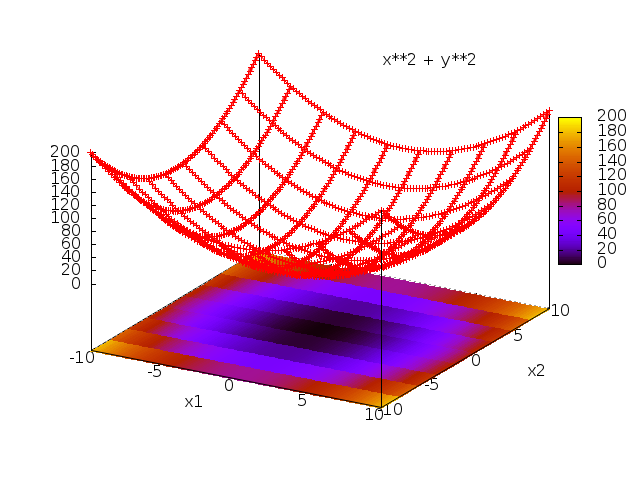
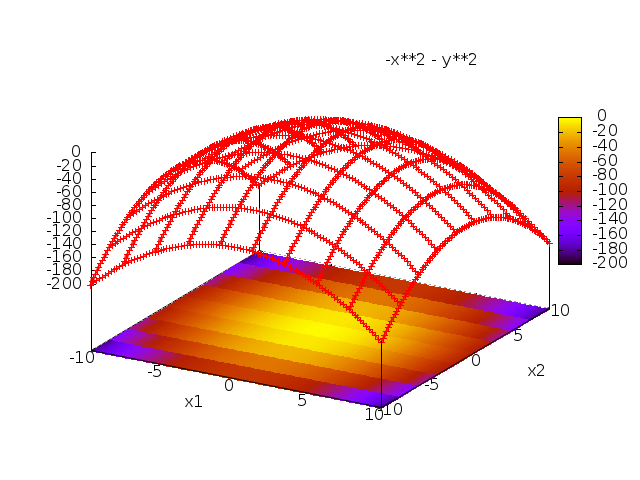
Поправлен вывод результатов (осуществляется через render_output_form), Добавлен выбор поиска максимума/минимума.

diff --git a/methods/hook_method.rb b/methods/hook_method.rb
@@ -9,10 +9,10 @@ require File.dirname(__FILE__)+"/calc_func.rb"
 
 class HookMethod
 
-  attr_accessor :draw_points, :x, :func, :y
+  attr_accessor :draw_points, :x, :func, :y, :y_res
 
   def self.find_extremum(params)
-    new(params[:function].to_s, [params[:x1].to_f,params[:x2].to_f], params[:eps].to_f, params[:lambda].to_f, params[:alpha].to_f, params[:step1].to_f, params[:step2].to_f)
+    new(params[:function], [params[:x1].to_f,params[:x2].to_f], params[:eps].to_f, params[:lambda].to_f, params[:alpha].to_f, params[:step1].to_f, params[:step2].to_f)
   end
 
   def initialize(func,x0, eps, lambda, alpha, step1, step2)
@@ -26,6 +26,7 @@ class HookMethod
     @y = [x0.dup,x0.dup,x0.dup]
     @draw_points  = Array.new
     @draw_points.push(x0.dup)
+    @y_res
     step_2
   end
 
@@ -60,6 +61,7 @@ class HookMethod
       step_2
     else
       if @step[0] < @eps and @step[1] < @eps
+        @y_res = calc(@y[-1])
       else
         @step[0] /= @alpha
         @step[1] /= @alpha

diff --git a/optimize.rb b/optimize.rb
@@ -16,8 +16,8 @@ helpers do
     "%.#{acc}f" % float
   end
 
-  def render_output_form(result)
-    erb(:output_form, locals: {result: result})
+  def render_output_form(result, params)
+    erb(:output_form, locals: {result: result, params: params})
   end
 end
 
@@ -30,8 +30,12 @@ get '/:name' do |name|
 end
 
 post '/:name' do |name|
+
+  params[:function] = params[:opt_type].to_s + "*(" + params[:function].to_s + ")"
+  params[:opt_type]= params[:opt_type].to_f
+  params[:opt_type] == -1.0 ? params[:extremum] = "Max" : params[:extremum] = "Min"
   result = name.camelize.constantize.find_extremum(params)
   drawplot(result.draw_points, name.to_s)
-  drawfunc(result.func)
+  drawfunc(result.func[4...-1])
   erb :"/#{name}/handler", locals: {params: params, result: result}
 end

diff --git a/methods/rozenbrok_method.rb b/methods/rozenbrok_method.rb
@@ -4,7 +4,7 @@ require File.dirname(__FILE__)+"/calc_func.rb"
 require "sinatra"
 
 class RozenbrokMethod < BaseOptimizeMethod
-  attr_accessor :func, :x, :d, :alpha, :beta, :eps, :i, :y, :dx, :N, :k, :n, :shitstep, :lambda, :x_res, :a, :draw_points
+  attr_accessor :func, :x, :y, :x_res, :draw_points, :y_res
 
   def self.find_extremum(params)
     new([params[:x1].to_f, params[:x2].to_f], params[:function].to_s, params[:alpha].to_f, params[:beta].to_f, params[:epsilon].to_f)
@@ -105,6 +105,8 @@ class RozenbrokMethod < BaseOptimizeMethod
 
     if self.norm <= @eps then
       @x_res = @x[-1]
+      puts @draw_points[-1].inspect
+      @y_res = calc(@draw_points[-1])
       return
     else
       @lambda = Matrix[[@x[-1][0] - @x[-2][0]],[@x[-1][1] - @x[-2][1]]]

diff --git a/methods/powell_method.rb b/methods/powell_method.rb
@@ -2,7 +2,7 @@ require File.dirname(__FILE__)+"/calc_func.rb"
 
 
 class PowellMethod
-  attr_accessor  :x , :draw_points, :func, :y
+  attr_accessor  :x , :draw_points, :func, :y , :y_res
   def self.find_extremum(params)
     new([params[:x1].to_f,params[:x2].to_f], params[:function], params[:eps].to_f)
   end
@@ -34,6 +34,9 @@ class PowellMethod
     @x.push(@y[-1])
     norm = Math.sqrt((@x[-1][0] - @x[-2][0])**2 + (@x[-1][1] - @x[-2][1])**2)
     if norm < @eps then
+
+      @y_res = calc(@y[-1])
+      puts @y_res.inspect
     else
       temp_d2 = Array.new(@d[2])
       for i in 0..1

diff --git a/methods/nelder_mead_method.rb b/methods/nelder_mead_method.rb
@@ -19,7 +19,7 @@ class Point
 end
 
 class NelderMeadMethod
-  attr_accessor :points, :draw_points, :alpha, :beta, :gamma, :func
+  attr_accessor :points, :draw_points, :alpha, :beta, :gamma, :func , :y_res
 
   def self.find_extremum(params)
     Point.setfunc(params[:function].to_s)
@@ -56,6 +56,7 @@ class NelderMeadMethod
       sum+= ((p.calc - f_c)**2)
     }
     if Math.sqrt(sum/3.0) < 0.0001 then
+      @y_res = @points[0].calc
       return
     end
     point_r = Point.new([0.0, 0.0])

diff --git a/README.md b/README.md
@@ -1,4 +1,4 @@
-#Методы оптимизации (поиска минимума) функции двух переменных.
+#Методы оптимизации (поиска экстремума) функции двух переменных.
 
 Задачей оптимизации в математике, информатике и исследовании операций называется задача нахождения экстремума (минимума или максимума) целевой функции в некоторой области конечномерного векторного пространства, ограниченной набором линейных и/или нелинейных равенств и/или неравенств. (с) [Wikipedia](http://ru.wikipedia.org/wiki/%CE%EF%F2%E8%EC%E8%E7%E0%F6%E8%FF)
 
